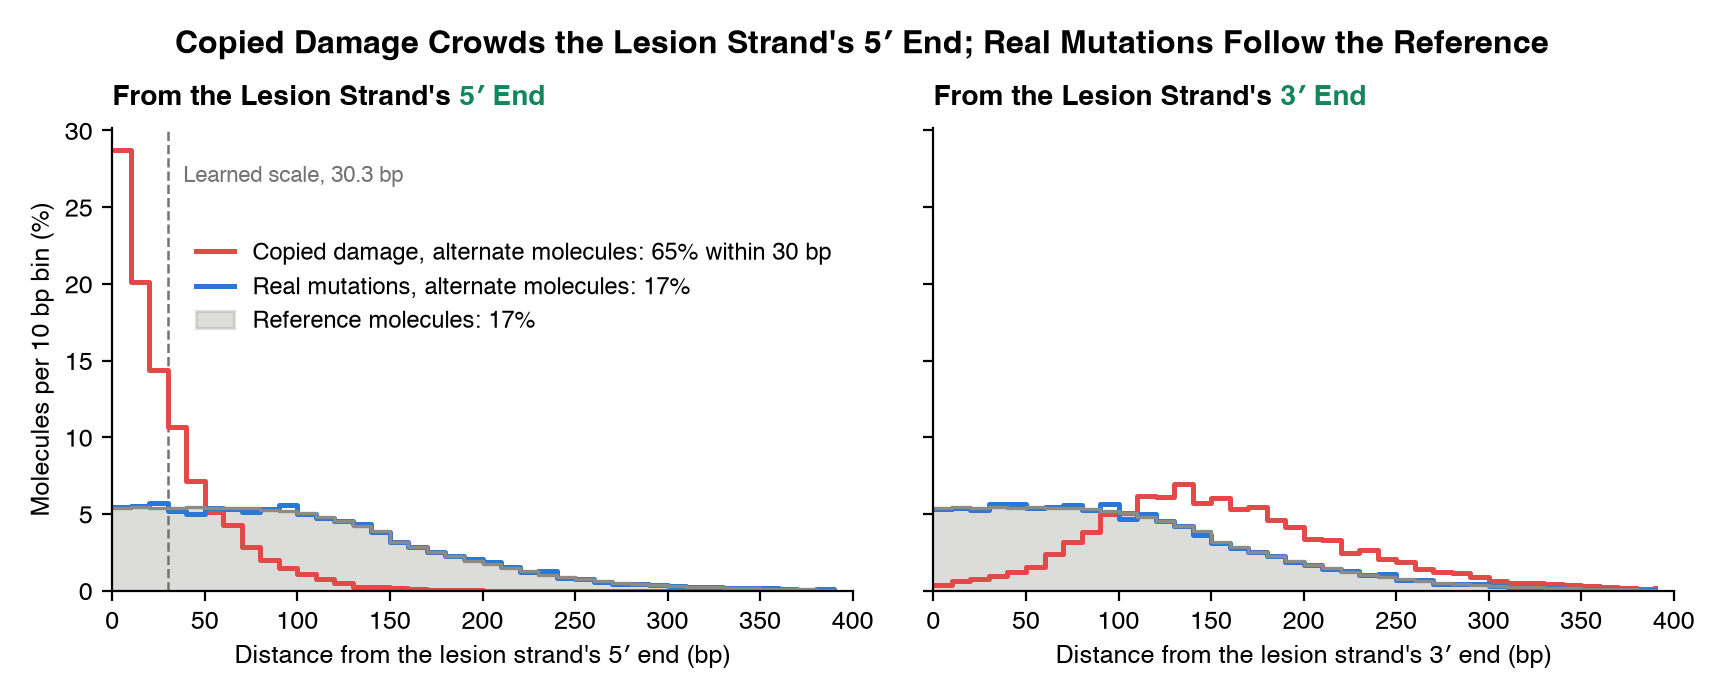
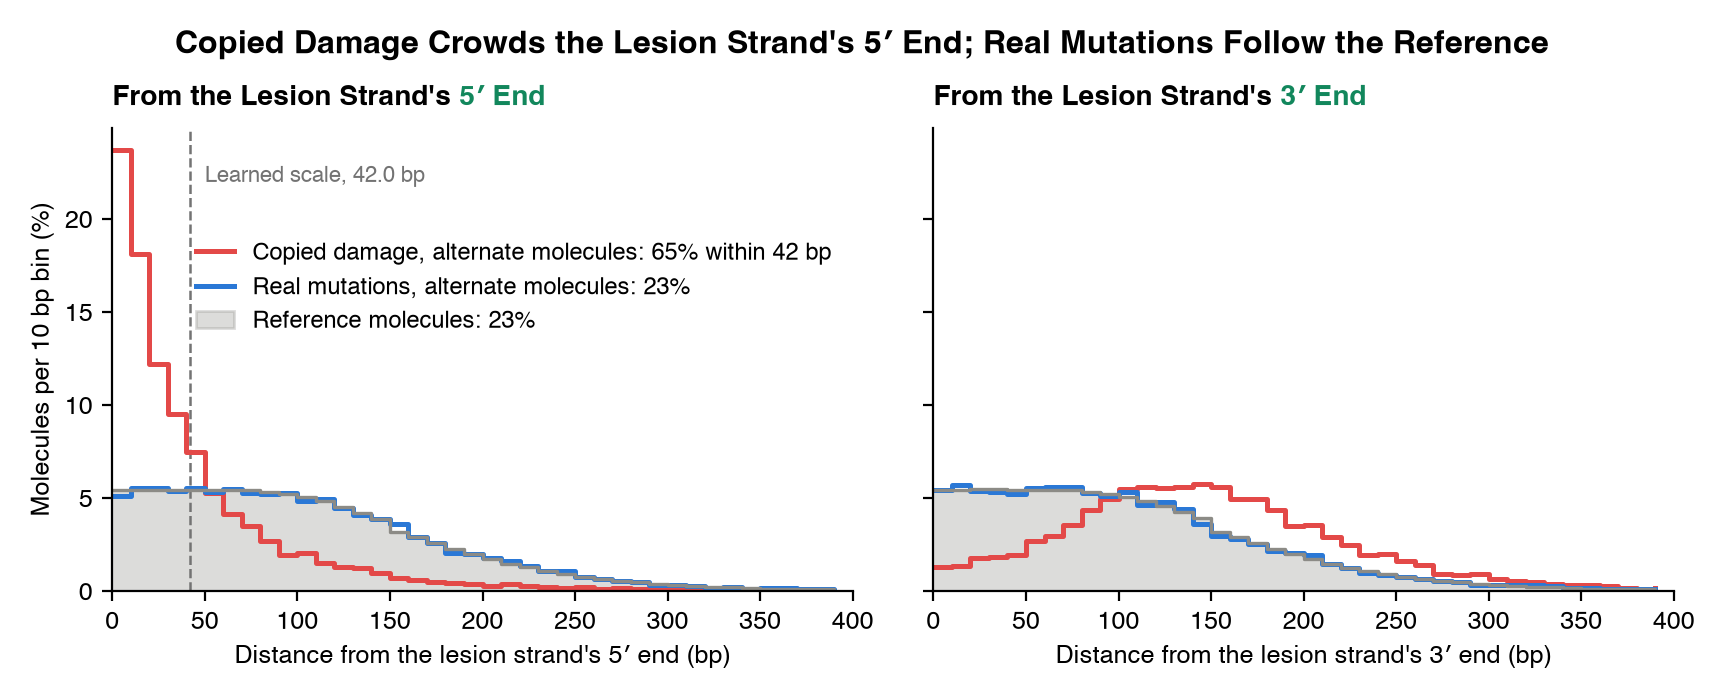
docs: simulate weaker copied damage and show weighting by CDAP
The README simulation now copies a fifth of lesions from internal
nicks anywhere in the template, so its end signal is weaker and its
numbers closer to real libraries: a threshold of 0.05 catches 6% of
2-molecule copied damage, and the learned fraction understates heavy
damage. A new figure shows that weighting calls by CDAP removes most of
the overcount that damage adds to a burden, where a threshold removes
little, and the README says so in a short passage beside it, with the
limits where calls rest on 2 molecules.

diff --git a/tests/figures.py b/tests/figures.py
@@ -22,7 +22,7 @@ from matplotlib.patches import Patch
 REPO = Path(__file__).resolve().parents[1]
 WORK, OUT = REPO / "target" / "figures", REPO / ".github" / "img"
 SEED, REAL, ARTIFACTS, ALT_MOLECULES = 11, 6000, 2000, (2, 3, 5, 10)
-DEPTH, DISPERSION, MEDIAN, SIGMA, FILL_IN, CLOCK = 400, 20, 200, 0.35, 30, 0.12
+DEPTH, DISPERSION, MEDIAN, SIGMA, FILL_IN, NICK, CLOCK = 400, 20, 200, 0.35, 30, 0.2, 0.12
 SPACING, READ_LENGTH, THRESHOLD = 1200, 150, 0.05
 CLASSES = ["C>A", "C>G", "C>T", "T>A", "T>C", "T>G"]
 CLASS_COLOR = {"C>A": "#1ebff0", "C>G": "#050708", "C>T": "#e62725", "T>A": "#cbcacb", "T>C": "#a1cf64", "T>G": "#edc8c5"}
@@ -72,12 +72,12 @@ def pair(header, name, reference, start, length, read_length, site, base, rng):
         yield read
 
 
-def simulate(work=WORK, seed=SEED, real=REAL, artifacts=ARTIFACTS, fill_in=FILL_IN, cpg_only=False):
+def simulate(work=WORK, seed=SEED, real=REAL, artifacts=ARTIFACTS, fill_in=FILL_IN, cpg_only=False, counts=ALT_MOLECULES, nick=NICK):
     """Write a reference, reads, and calls of real mutations and copied damage, and return the truth by 1-based position."""
     rng = np.random.default_rng(seed)
     p = np.array([ch in CPG_CT for ch in CHANNELS], dtype=float) / 4 if cpg_only else spectrum(rng)
-    sites = [{"kind": "real", "channel": str(rng.choice(CHANNELS, p=p)), "n": ALT_MOLECULES[i % 4]} for i in range(real)]
-    sites += [{"kind": "artifact", "channel": str(rng.choice(CPG_CT)), "n": ALT_MOLECULES[i % 4]} for i in range(artifacts)]
+    sites = [{"kind": "real", "channel": str(rng.choice(CHANNELS, p=p)), "n": counts[i % len(counts)]} for i in range(real)]
+    sites += [{"kind": "artifact", "channel": str(rng.choice(CPG_CT)), "n": counts[i % len(counts)]} for i in range(artifacts)]
     rng.shuffle(sites)
     reference = np.array(list("ACGT"))[rng.choice(4, size=SPACING * len(sites), p=[0.295, 0.205, 0.205, 0.295])]
     for i, s in enumerate(sites):
@@ -96,10 +96,12 @@ def simulate(work=WORK, seed=SEED, real=REAL, artifacts=ARTIFACTS, fill_in=FILL_
             depth, molecules, alt = int(rng.negative_binomial(DISPERSION, DISPERSION / (DISPERSION + DEPTH))), [], 0
             while alt < s["n"]:
                 start, length, read_length = fragment(rng, s["site"])
-                five_prime = s["site"] - start if s["forward"] else start + length - 1 - s["site"]
-                copied = s["kind"] == "real" or rng.random() < np.exp(-five_prime / fill_in)
-                molecules.append((start, length, read_length, s["alt"] if copied else "N"))
-                alt += copied
+                if s["kind"] == "artifact" and rng.random() >= nick:
+                    while rng.random() >= np.exp(-(s["site"] - start if s["forward"] else start + length - 1 - s["site"]) / fill_in):
+                        molecules.append((start, length, read_length, "N"))
+                        start, length, read_length = fragment(rng, s["site"])
+                molecules.append((start, length, read_length, s["alt"]))
+                alt += 1
             molecules += [(*fragment(rng, s["site"]), s["ref"]) for _ in range(max(depth, len(molecules)) - len(molecules))]
             reads = [r for j, m in enumerate(molecules) for r in pair(header, f"s{i}m{j}", reference, *m[:3], s["site"], m[3], rng)]
             for read in sorted(reads, key=lambda r: r.reference_start):
@@ -276,11 +278,11 @@ def outcome_figure(truth, chaff, fgbio):
                 for m, face in (("chaff", "black"), ("fgbio", "white"))]
     ax.legend(handles=handles, loc="lower right", fontsize=8.5, handlelength=1.4)
     fig.subplots_adjust(left=0.07, right=0.99, bottom=0.12, top=0.9)
-    finish(fig, "copied-damage-filtering.png", "Filtering Removes Most Copied Damage and Keeps Real Mutations; 2 Molecules Are Its Limit")
+    finish(fig, "copied-damage-filtering.png", "A Threshold Spares Real Mutations but Misses Most Copied Damage at 2 or 3 Molecules")
 
 
-LIBRARIES = [(f, 30) for f in (0, 0.05, 0.1, 0.2, 0.4, 0.6)] + [(0.4, 15), (0.4, 60)]
-LIBRARY_CALLS = 400
+LIBRARIES = [(f, 30) for f in (0, 0.05, 0.1, 0.2, 0.3, 0.4, 0.5, 0.6)] + [(0.4, 15), (0.4, 60)]
+LIBRARY_CALLS, LIBRARY_COUNTS = 400, (2, 2, 2, 2, 3, 3, 3, 4, 4, 5)
 BINS = [0, 0.01, 0.05, 0.1, 0.2, 0.3, 0.4, 0.5, 0.6, 0.7, 0.8, 0.9, 0.95, 0.99, 1.0001]
 
 
@@ -290,7 +292,7 @@ def libraries():
     for i, (fraction, scale) in enumerate(LIBRARIES):
         work = WORK / "libraries" / f"{fraction}-{scale}"
         artifacts = round(LIBRARY_CALLS * fraction)
-        truth = simulate(work, SEED + i + 1, LIBRARY_CALLS - artifacts, artifacts, scale, cpg_only=True)
+        truth = simulate(work, SEED + i + 1, LIBRARY_CALLS - artifacts, artifacts, scale, cpg_only=True, counts=LIBRARY_COUNTS)
         run_chaff(work)
         out.append({"fraction": fraction, "scale": scale, "truth": truth, "learned": metrics(work, "artifact_fraction"),
                     "learned_scale": metrics(work, "distance"), "chaff": calls("chaff", work), "fgbio": calls("fgbio", work)})
@@ -316,7 +318,7 @@ def learning_figure(libs):
     left.set_ylim(0, 70)
     left.set_xlabel("True copied damage (% of calls)")
     left.set_ylabel("Learned artifact fraction (%)")
-    left.set_title("chaff Learns Each Library's Damage", fontsize=10, fontweight="bold", loc="left")
+    left.set_title("chaff Understates Heavy Damage", fontsize=10, fontweight="bold", loc="left")
     inset = left.inset_axes([0.6, 0.1, 0.36, 0.36])
     inset.plot([0, 80], [0, 80], color=GRAY, lw=0.8, ls="--", zorder=1)
     for lib in libs:
@@ -339,7 +341,7 @@ def learning_figure(libs):
     right.set_ylim(0, 1)
     right.set_xlabel("CDAP, the posterior that a call is real")
     right.set_ylabel("Calls that are real")
-    right.set_title("Its Posteriors Mean What They Say", fontsize=10, fontweight="bold", loc="left")
+    right.set_title("Its Posteriors Lean Toward Real", fontsize=10, fontweight="bold", loc="left")
     right.legend(loc="lower right", fontsize=8.5, handlelength=1.4)
     shapes = [Line2D([], [], ls="", marker=m, ms=6, color=ALT_COLOR, label=f"{scale} bp fill-in") for m, scale in (("s", 15), ("o", 30), ("D", 60))]
     left.legend(handles=shapes, loc="upper left", fontsize=8.5, handlelength=1.0)
@@ -347,7 +349,41 @@ def learning_figure(libs):
     finish(fig, "copied-damage-learning.png", LEARNING_TITLE)
 
 
-LEARNING_TITLE = "The Learned Prior Tracks Each Library's Damage and Calibrates Its Posteriors"
+
+def burden(lib, estimator):
+    """A library's estimate of its real calls, as a multiple of the true count."""
+    called, truth = lib["chaff"], lib["truth"]
+    real = sum(t["kind"] == "real" for t in truth.values())
+    if estimator == "raw":
+        estimate = len(truth)
+    elif estimator == "threshold":
+        estimate = sum(not called[p]["filtered"] for p in truth)
+    else:
+        estimate = sum(1.0 if called[p]["cdap"] is None else called[p]["cdap"] for p in truth)
+    return estimate / real
+
+
+def burden_figure(libs):
+    libs = [lib for lib in libs if lib["scale"] == FILL_IN]
+    fig, ax = plt.subplots(figsize=(7.0, 4.2))
+    ax.axhline(1, color=GRAY, lw=0.9, ls="--", zorder=1)
+    x = [100 * lib["fraction"] for lib in libs]
+    for estimator, name, color in (("raw", "Every call", REF_COLOR), ("threshold", f"Calls passing a CDAP threshold of {THRESHOLD}", ALT_COLOR),
+                                   ("weighted", "Calls weighted by CDAP", REAL_COLOR)):
+        y = [burden(lib, estimator) for lib in libs]
+        ax.plot(x, y, color=color, lw=1.6, marker="o", ms=5, label=name, zorder=3)
+    ax.set_xlim(0, 62)
+    ax.set_ylim(0.8, None)
+    ax.set_xlabel("True copied damage (% of calls)")
+    ax.set_ylabel("Estimated real calls / true real calls")
+    ax.legend(loc="upper left", fontsize=8.5, handlelength=1.6)
+    fig.tight_layout()
+    finish(fig, "copied-damage-burden.png", BURDEN_TITLE)
+
+
+BURDEN_TITLE = "Weighting Calls by CDAP Removes Most of the Burden Inflation; a Threshold Removes Little"
+
+LEARNING_TITLE = "Where Copied Damage Is Heavy, the Learned Prior Understates It"
 
 
 if __name__ == "__main__":
@@ -361,4 +397,6 @@ if __name__ == "__main__":
     chaff = calls("chaff")
     ends_figure(truth, chaff)
     outcome_figure(truth, chaff, calls("fgbio"))
-    learning_figure(libraries())
+    libs = libraries()
+    learning_figure(libs)
+    burden_figure(libs)

diff --git a/README.md b/README.md
@@ -89,7 +89,7 @@ Fragmenting with a restriction enzyme that leaves blunt ends, as NanoSeq does [[
 - **Use it when:** UMI-bearing adapters are ligated after any polymerase fills in ends, nicks, or gaps, as in Duplex Sequencing; it needs the reference, `--ref`.
 
 As the copied damage diagram shows, the copy runs from the partner's recessed end toward the lesion strand's 5′ end, so copied lesions sit near that end, while a real mutation's molecules sit wherever the reference molecules do.
-On a simulated duplex sample of 6,000 real mutations and 2,000 copied-damage calls at CpG C>T, a quarter of each with 2, 3, 5, or 10 alternate molecules, about 400 duplex molecules per site, fragments of median length 200 bp, and fill-in that copies a lesion from the lesion strand's 5′ end over an exponential length with a mean of 30 bp, the tool learns a scale of 30.3 bp and 65% of the copied damage's alternate molecules sit within it, against 17% of the real mutations' and of the reference molecules:
+On a simulated duplex sample of 6,000 real mutations and 2,000 copied-damage calls at CpG C>T, a quarter of each with 2, 3, 5, or 10 alternate molecules, about 400 duplex molecules per site, fragments of median length 200 bp, and fill-in that copies 80% of lesions from the lesion strand's 5′ end over an exponential length with a mean of 30 bp and the rest from internal nicks anywhere in the template, the tool learns a scale of 42.0 bp, and 65% of the copied damage's alternate molecules sit within it, against 23% of the real mutations' and of the reference molecules:
 
 ![Distances of alternate and reference molecules from the lesion strand's 5′ and 3′ ends: copied damage piles up near the 5′ end and avoids the 3′ end, while real mutations follow the reference molecules.](.github/img/copied-damage-ends.png)
 
@@ -229,15 +229,20 @@ The deletion at position 300 is not scored.
 To check a threshold, run the tool on germline heterozygous calls from the same reads, down-sampled to the 2 to 10 alternate molecules of your somatic calls: they are real, so the share it filters estimates how often it filters real somatic calls.
 Where a matched normal or a replicate library exists, the somatic calls it shares are a second check.
 
-On 8 simulated libraries of 400 C>T calls at CpG, each with a known share of copied damage and fill-in scale, the learned prior recovers each library's share and scale, though it puts a 60 bp scale at 53.5 bp, and the posteriors, pooled into bins of at least 15 calls, match how often calls are real:
-
-![Left, the learned artifact fraction against the true share of copied damage in 8 simulated libraries, on the identity line, with an inset of the learned against the true fill-in scale; right, the share of calls that are real against their CDAP, near the identity line under the chaff model and far above it under the fgbio model.](.github/img/copied-damage-learning.png)
-
-On the simulated sample of the copied damage section, a threshold of 0.05 filters 1,427 of the 2,000 copied-damage calls and 23 of the 1,065 real C>T at CpG, and none of the 4,935 calls in other channels.
-That threshold filters 95% of the copied damage with 10 alternate molecules and 86% with 5, but only 40% with 2, where it also filters 6 of 253 real C>T at CpG.
-In the figure, each curve sweeps the threshold, counting real calls filtered among the real C>T at CpG, the stratum copied damage shares, and the filled dots mark a threshold of 0.05; the open circles show `--model fgbio`, which uses fgbio's per-call prior from the alternate allele fraction: at the same threshold it filters 1,998 of the copied-damage calls, but also 82%, 60%, 24%, and 5.4% of the real C>T at CpG with 2, 3, 5, and 10 alternate molecules, against at most 3.3% under the `chaff` model:
+On the simulated sample of the copied damage section, a threshold of 0.05 filters 821 of the 2,000 copied-damage calls and 9 of the 1,065 real C>T at CpG, and none of the 4,935 calls in other channels: 73% of the copied damage with 10 alternate molecules, 50% with 5, 34% with 3, and only 6% with 2.
+In the figure, each curve sweeps the threshold, counting real calls filtered among the real C>T at CpG, the stratum copied damage shares, and the filled dots mark a threshold of 0.05; the open circles show `--model fgbio`, which uses fgbio's per-call prior from the alternate allele fraction: at the same threshold it filters 1,955 of the copied-damage calls, but also 94%, 75%, 49%, and 11% of the real C>T at CpG with 2, 3, 5, and 10 alternate molecules, against at most 1.6% under the `chaff` model:
 
 ![The SBS96 spectrum of the simulated sample before and after filtering, where the copied damage at CpG C>T mostly leaves and the other channels stay, and the share of copied damage filtered against the share of real C>T at CpG filtered, by alternate molecules per call and model.](.github/img/copied-damage-filtering.png)
+
+At 2 alternate molecules a threshold catches only a minority of copied damage, so for a mutation burden or frequency, weight each call by its `CDAP`, as the `expected_mutations` column of the metrics does, instead of filtering.
+On simulated libraries of 400 C>T calls at CpG, most with 2 to 4 alternate molecules, weighting brings a 2.5-fold overcount at 60% damage down to 1.2-fold, where a threshold of 0.05 leaves 2.2-fold:
+
+![The real calls each estimator counts, as a multiple of the true count, against the true share of copied damage: every call and calls passing a threshold climb with damage, while calls weighted by CDAP stay much nearer the truth.](.github/img/copied-damage-burden.png)
+
+Weighting reduces the overcount but cannot remove it where calls rest on 2 molecules and the end signal is weak: there the learned artifact fraction understates damage, 51% for a true 60% here, and the posteriors lean toward real, as they can more on real data.
+The learned artifact fraction and the asymmetry p-value still rank samples by damage, which makes them a good per-sample covariate:
+
+![Left, the learned artifact fraction against the true share of copied damage in 10 simulated libraries, below the identity line where damage is heavy, with an inset of the learned against the true fill-in scale; right, the share of calls that are real against their CDAP, a little below the identity line under the chaff model and far above it under the fgbio model.](.github/img/copied-damage-learning.png)
 
 ## What `chaff` Writes
 
